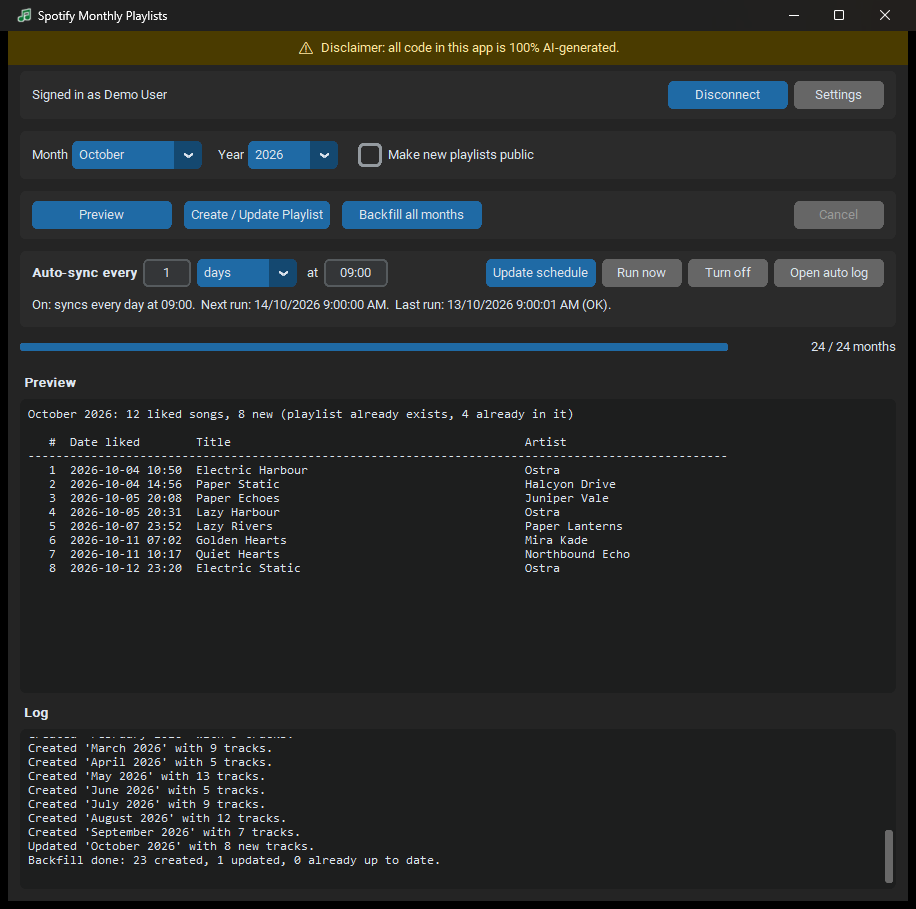
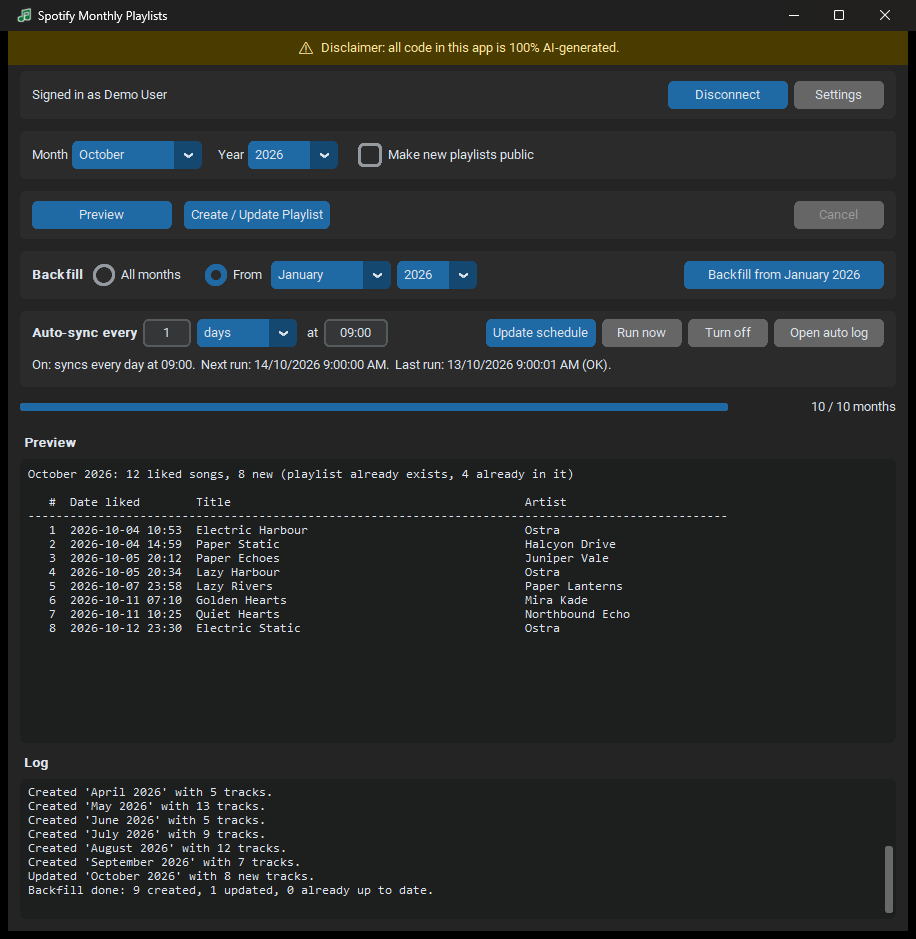
docs: document backfill-from option and refresh screenshots

diff --git a/tools/screenshots.py b/tools/screenshots.py
@@ -193,7 +193,7 @@ def main() -> None:
     def step_backfill():
         def answer_dialog():  # the confirm box is a native modal dialog; capture it, then click Yes
             for _ in range(200):
-                hwnd = user32.FindWindowW(None, "Backfill all months")
+                hwnd = user32.FindWindowW(None, "Backfill playlists")
                 if hwnd:
                     time.sleep(0.6)
                     save(capture(hwnd)[0], "backfill_confirm.png")
@@ -202,6 +202,11 @@ def main() -> None:
                 time.sleep(0.1)
 
         threading.Thread(target=answer_dialog, daemon=True).start()
+        # show the "From <month> <year>" option: January of the current year
+        app.bf_mode.set("from")
+        app.bf_month_var.set("January")
+        app.bf_year_var.set(str(datetime.now().year))
+        app._update_backfill_controls()
         app.do_backfill()
         wait_idle(step_backfill_shot, 1500)
 

diff --git a/docs/USER_GUIDE.md b/docs/USER_GUIDE.md
@@ -15,7 +15,7 @@ playlists. Screenshots use made-up demo songs and a demo account.
 4. [A tour of the main window](#4-a-tour-of-the-main-window)
 5. [Preview a month](#5-preview-a-month)
 6. [Create or update a month's playlist](#6-create-or-update-a-months-playlist)
-7. [Backfill every month at once](#7-backfill-every-month-at-once)
+7. [Backfill many months at once](#7-backfill-many-months-at-once)
 8. [Turn on automatic sync](#8-turn-on-automatic-sync)
 9. [Disconnecting, privacy and where things are stored](#9-disconnecting-privacy-and-where-things-are-stored)
 10. [FAQ](#10-faq)
@@ -78,7 +78,7 @@ From top to bottom:
 | **Make new playlists public** | Off by default, so new playlists are private. Only affects playlists the app *creates*. Existing playlists are never changed. |
 | **Preview** | Shows which songs would be added, without changing anything. |
 | **Create / Update Playlist** | Creates the playlist for the selected month, or adds any missing songs to it. |
-| **Backfill all months** | Does the same for every month you've ever liked songs in. |
+| **Backfill row** | Does the same for many months: **All months**, or **From** a chosen month and year up to now. See [section 7](#7-backfill-many-months-at-once). |
 | **Cancel** | Stops a running backfill or login. |
 | **Auto-sync row** | Runs the app automatically on a schedule. See [section 8](#8-turn-on-automatic-sync). |
 | **Progress bar** | Busy indicator, or "N / M months" during a backfill. |
@@ -119,10 +119,20 @@ It's always safe to click again:
 - It **never removes** songs, so songs you add to the playlist yourself stay put.
 - New playlists get the description *"Liked songs from October 2026. Auto-generated."*
 
-## 7. Backfill every month at once
+## 7. Backfill many months at once
 
-Click **Backfill all months** to build a playlist for every month in your Liked Songs
-history. The app first reads your whole library, then asks for confirmation:
+The **Backfill** row creates or updates a playlist for many months in one go. Choose
+how far back to go:
+
+- **All months**: every month in your Liked Songs history. The button reads
+  **Backfill all months**.
+- **From [Month] [Year]**: only that month and every month after it, up to now. Pick
+  a month and year, and the button changes to e.g. **Backfill from January 2026**.
+  This is quicker for big libraries, because the app stops reading your Liked Songs
+  once it reaches that month. It's handy if you already have older monthly playlists,
+  or only want recent ones. Months in the future aren't allowed.
+
+Click the button. The app reads your Liked Songs, then asks for confirmation:
 
 ![Backfill confirmation](screenshots/backfill_confirm.png)
 

diff --git a/README.md b/README.md
@@ -21,8 +21,9 @@ them, oldest first.
 - **Create / Update** a single month. Re-running is safe: if a playlist with that exact
   name already exists (and you own it), only missing tracks are added. Playlists are
   never duplicated and tracks are never removed.
-- **Backfill all months** creates or updates a playlist for every month that has liked
-  songs. It asks for confirmation first and shows a progress bar.
+- **Backfill** creates or updates a playlist for every month that has liked songs.
+  Choose **all months**, or **from** a chosen month and year onwards. It asks for
+  confirmation first and shows a progress bar.
 - **Auto-sync every X hours, days, weeks or months.** Set it once in the app and it
   keeps running via Windows Task Scheduler, even when the app is closed.
 - **`--auto` mode** runs headless for scheduled runs. It syncs last month and the current
